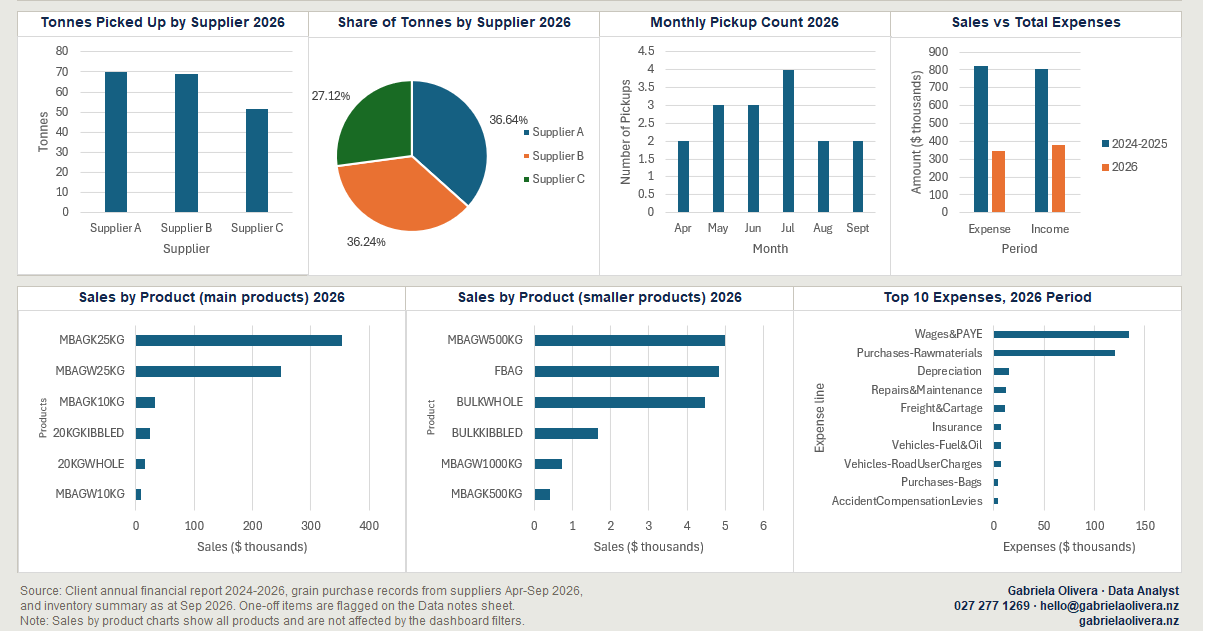
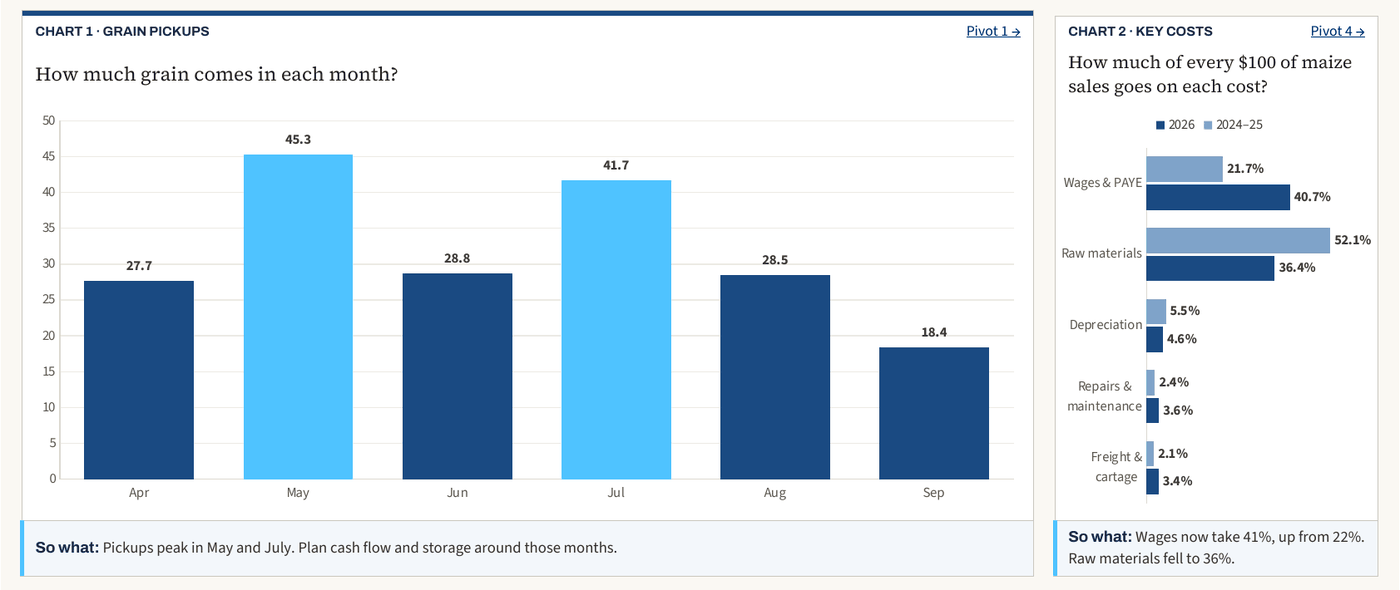
Case study: new dashboard screens from the updated template
- Litchfields Grain case study: four screens (headline measures, pickups and
  key costs, suppliers/products/expenses, KPIs) instead of two, shown as a
  2x2 grid on desktop and a carousel on phones.
- Home case study card uses the new headline screen.
- v3.css: carousel arrow sits under each screenshot; ?v= bumped on every page
  that loads v3.css.

Claude-Session: https://claude.ai/code/session_01YEdAGbvF51qRxrg4vP8Xdn

diff --git a/case-studies/litchfields-grain/index.html b/case-studies/litchfields-grain/index.html
@@ -25,7 +25,7 @@
 <meta name="twitter:image" content="https://gabrielaolivera.nz/assets/images/og-card-litchfields-grain.png">
 <meta name="twitter:image:alt" content="Litchfields Grain: from scattered records to one clear view. A case study by Gabriela Olivera.">
 <link rel="icon" type="image/png" href="../../assets/favicon.png">
-<link rel="stylesheet" href="../../assets/v3.css?v=20261119b">
+<link rel="stylesheet" href="../../assets/v3.css?v=20261124a">
 <link rel="stylesheet" href="../../assets/chrome.css?v=20261104d">
 <script data-goatcounter="https://gabrielaolivera.goatcounter.com/count" async src="https://gc.zgo.at/count.js"></script>
 </head>
@@ -73,9 +73,11 @@
 <section class="sec shots" aria-label="The dashboard">
   <div class="w">
     <div class="qhead rv"><div><span class="lab">The dashboard</span><h2 class="h2">What the owner sees.</h2></div></div>
-    <div class="shotg">
-      <figure class="shot3 rv"><div class="bar"><i></i><i></i><i></i><span>Headline measures and trends</span></div><a href="../../assets/images/case-studies/litchfields-grain/dashboard-1.png" target="_blank" rel="noopener"><img src="../../assets/images/case-studies/litchfields-grain/dashboard-1.png" alt="Top half of the dashboard: headline measures, monthly tonnes picked up and key costs as a percentage of sales" loading="lazy"></a><figcaption>Open full size →</figcaption></figure>
-      <figure class="shot3 rv" style="--d:.15s"><div class="bar"><i></i><i></i><i></i><span>Suppliers, products and costs</span></div><a href="../../assets/images/case-studies/litchfields-grain/dashboard-2.png" target="_blank" rel="noopener"><img src="../../assets/images/case-studies/litchfields-grain/dashboard-2.png" alt="Bottom half of the dashboard: tonnes by supplier, sales by product and top expenses" loading="lazy"></a><figcaption>Open full size →</figcaption></figure>
+    <div class="shotg" data-carousel role="group" aria-label="Dashboard screens">
+      <figure class="shot3 rv"><div class="bar"><i></i><i></i><i></i><span>Headline measures and findings</span></div><a href="../../assets/images/case-studies/litchfields-grain/dashboard-1.png" target="_blank" rel="noopener"><img src="../../assets/images/case-studies/litchfields-grain/dashboard-1.png" alt="Top of the dashboard: total sales, margin after expenses, tonnes picked up, expenses as a share of sales, and three findings worth acting on" loading="lazy" style="aspect-ratio:7/3;object-fit:cover;object-position:top;width:100%"></a><figcaption>Open full size →</figcaption></figure>
+      <figure class="shot3 rv" style="--d:.15s"><div class="bar"><i></i><i></i><i></i><span>Grain pickups and key costs</span></div><a href="../../assets/images/case-studies/litchfields-grain/dashboard-2.png" target="_blank" rel="noopener"><img src="../../assets/images/case-studies/litchfields-grain/dashboard-2.png" alt="Monthly tonnes picked up, with May and July highlighted, and key costs as a share of maize sales for 2024–25 and 2026" loading="lazy" style="aspect-ratio:7/3;object-fit:cover;object-position:top;width:100%"></a><figcaption>Open full size →</figcaption></figure>
+      <figure class="shot3 rv"><div class="bar"><i></i><i></i><i></i><span>Suppliers, products and expenses</span></div><a href="../../assets/images/case-studies/litchfields-grain/dashboard-3.png" target="_blank" rel="noopener"><img src="../../assets/images/case-studies/litchfields-grain/dashboard-3.png" alt="Tonnes by supplier, sales by product and the biggest expenses in 2026, each with a one-line takeaway" loading="lazy" style="aspect-ratio:7/3;object-fit:cover;object-position:top;width:100%"></a><figcaption>Open full size →</figcaption></figure>
+      <figure class="shot3 rv" style="--d:.15s"><div class="bar"><i></i><i></i><i></i><span>The KPIs behind it</span></div><a href="../../assets/images/case-studies/litchfields-grain/dashboard-4.png" target="_blank" rel="noopener"><img src="../../assets/images/case-studies/litchfields-grain/dashboard-4.png" alt="KPI sheet: each measure with the question it answers, this period, last period, change and source" loading="lazy" style="aspect-ratio:7/3;object-fit:cover;object-position:top;width:100%"></a><figcaption>Open full size →</figcaption></figure>
     </div>
   </div>
 </section>

diff --git a/newsletter/ai-and-customer-data/index.html b/newsletter/ai-and-customer-data/index.html
@@ -26,7 +26,7 @@
 <meta name="twitter:image:alt" content="Gabriela Olivera, for small businesses in Bay of Plenty: straight answers from the numbers you already have.">
 
 <link rel="icon" type="image/png" href="../../assets/favicon.png">
-<link rel="stylesheet" href="../../assets/v3.css?v=20261119b">
+<link rel="stylesheet" href="../../assets/v3.css?v=20261124a">
 <link rel="stylesheet" href="../../assets/newsletter.css?v=20261119d">
 <!-- Cookie-free analytics (GoatCounter). The privacy policy describes it. -->
 <script data-goatcounter="https://gabrielaolivera.goatcounter.com/count" async src="https://gc.zgo.at/count.js"></script>

diff --git a/newsletter/costs-went-up/index.html b/newsletter/costs-went-up/index.html
@@ -25,7 +25,7 @@
 <meta name="twitter:image:alt" content="Gabriela Olivera, for small businesses in Bay of Plenty: straight answers from the numbers you already have.">
 
 <link rel="icon" type="image/png" href="../../assets/favicon.png">
-<link rel="stylesheet" href="../../assets/v3.css?v=20261119b">
+<link rel="stylesheet" href="../../assets/v3.css?v=20261124a">
 <link rel="stylesheet" href="../../assets/newsletter.css?v=20261119d">
 <!-- Cookie-free analytics (GoatCounter). The privacy policy describes it. -->
 <script data-goatcounter="https://gabrielaolivera.goatcounter.com/count" async src="https://gc.zgo.at/count.js"></script>

diff --git a/newsletter/index.html b/newsletter/index.html
@@ -25,7 +25,7 @@
 <meta name="twitter:image:alt" content="Gabriela Olivera, for small businesses in Bay of Plenty: straight answers from the numbers you already have.">
 
 <link rel="icon" type="image/png" href="../assets/favicon.png">
-<link rel="stylesheet" href="../assets/v3.css?v=20261119b">
+<link rel="stylesheet" href="../assets/v3.css?v=20261124a">
 <link rel="stylesheet" href="../assets/newsletter.css?v=20261119d">
 <!-- Cookie-free analytics (GoatCounter). The privacy policy describes it. -->
 <script data-goatcounter="https://gabrielaolivera.goatcounter.com/count" async src="https://gc.zgo.at/count.js"></script>

diff --git a/assets/v3.css b/assets/v3.css
@@ -720,6 +720,7 @@ h1 .hl,h3 .hl{font-weight:inherit;padding:0 .1em}
   .cnx.lt{background:rgba(255,255,255,.12);color:#fff}
   .cnx:active{background:var(--navy);color:#fff}.cnx.lt:active{background:var(--sky);color:var(--navy)}
   .cnx:focus-visible{outline:2px solid var(--sky);outline-offset:2px}
+  .shot3 .cnx{top:auto;bottom:4px;right:12px}
   [data-carousel]>*{position:relative}
   .table[data-carousel] .plan .tag{right:auto;left:20px}
   .table[data-carousel] .plan.rec .kind{margin-top:22px}

diff --git a/index.html b/index.html
@@ -81,7 +81,7 @@
     ml('account', '2716789');
 </script>
 <!-- End MailerLite Universal -->
-<link rel="stylesheet" href="assets/v3.css?v=20261119b">
+<link rel="stylesheet" href="assets/v3.css?v=20261124a">
 <link rel="stylesheet" href="assets/chrome.css?v=20261104d">
 </head>
 <body>
